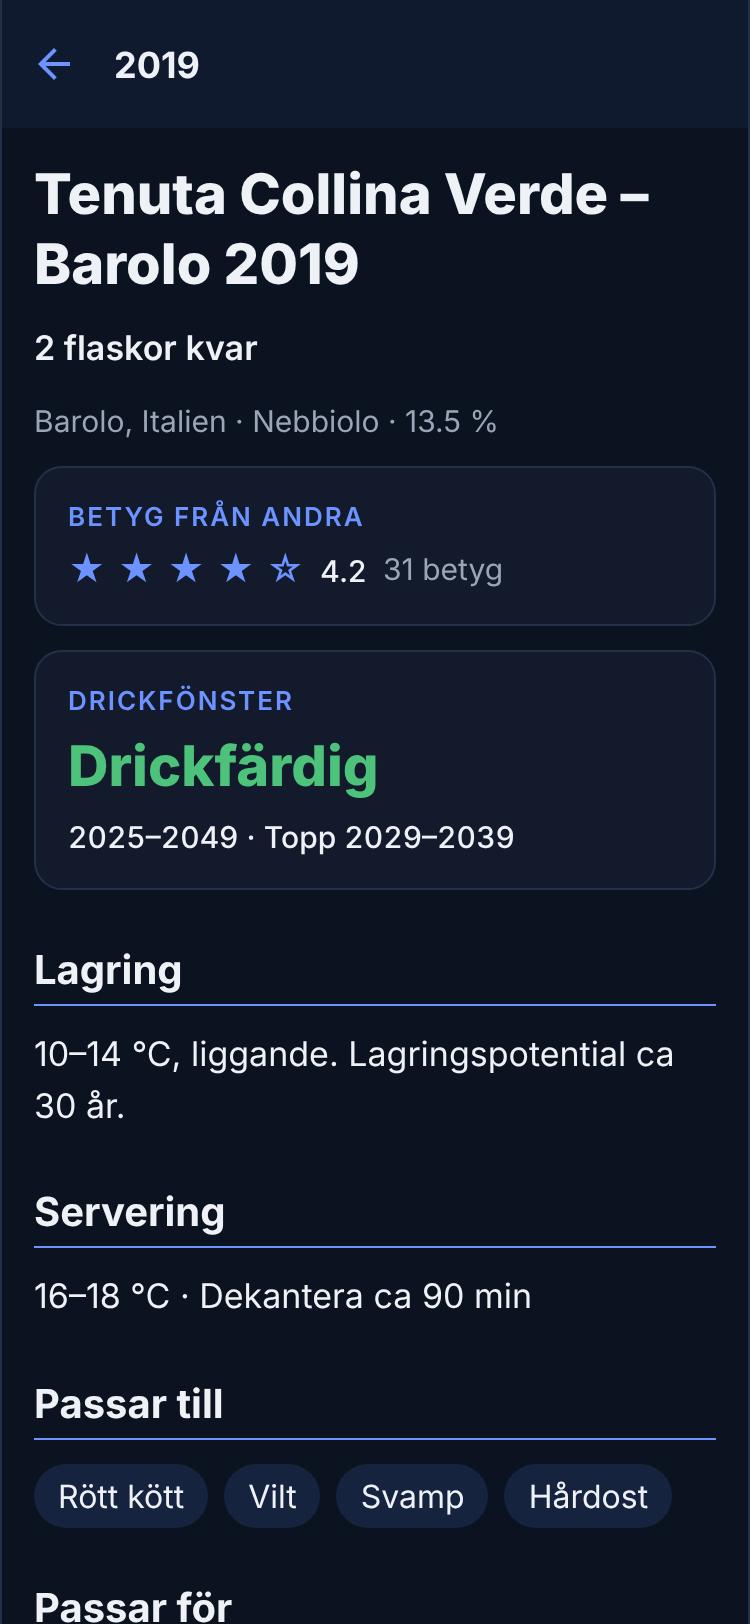
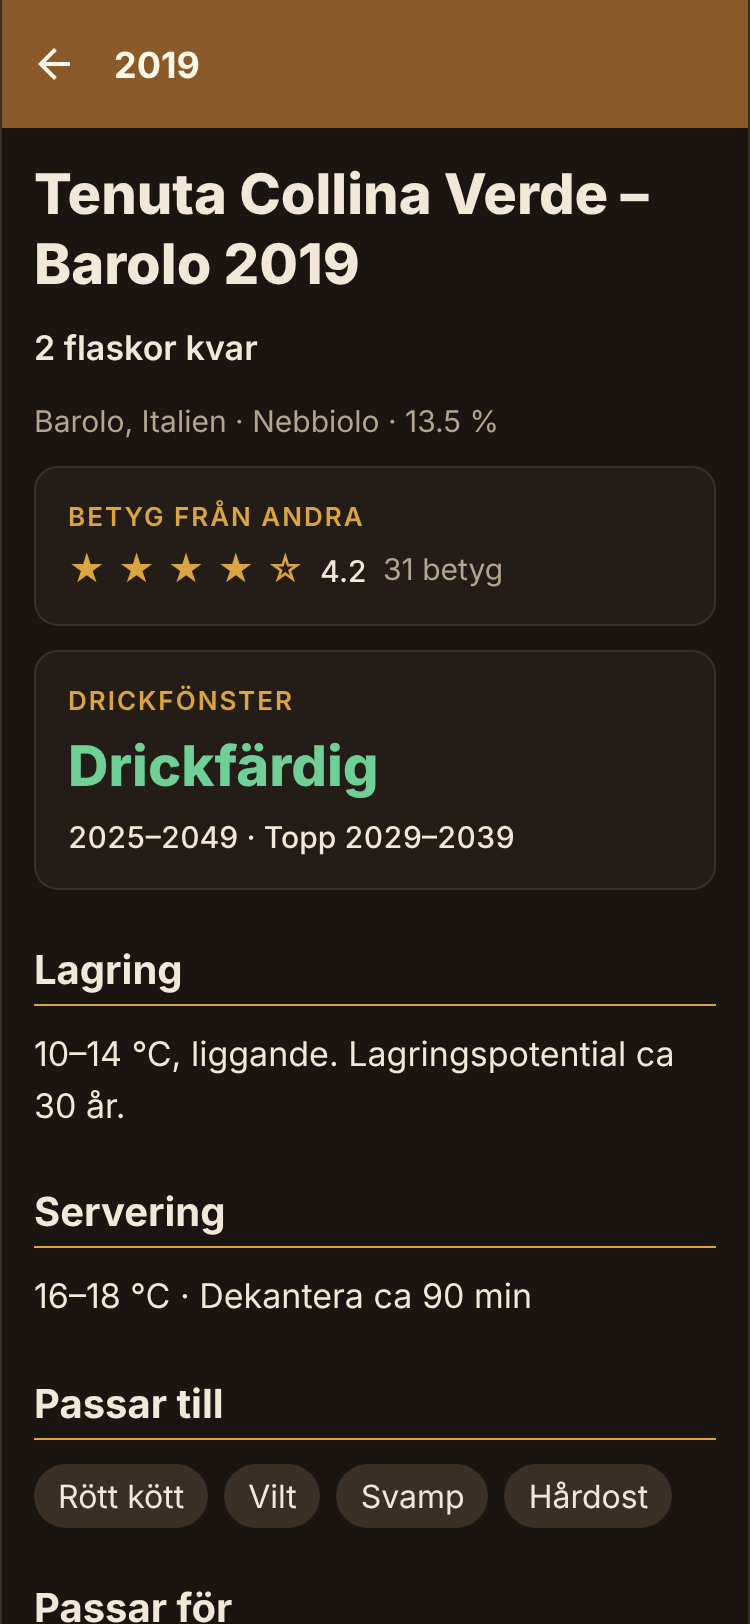
Trand-temat följer TrandStyles färger (#32)
* Förbättra UI/UX: tydligare färger, rubriker och brödtext inom tour-temat

Claude-Session: https://claude.ai/code/session_01K9pKQeodvru12FmDSgB8MM

* Förklara varför flaskan inte kan sparas och vad årgång betyder

Claude-Session: https://claude.ai/code/session_01K9pKQeodvru12FmDSgB8MM

* Mobile first: visa appen som en centrerad mobilkolumn på bred skärm

Claude-Session: https://claude.ai/code/session_01K9pKQeodvru12FmDSgB8MM

* Källaren: gruppering, filtrering och sortering

- Standard: grupperat på vintyp och sedan druva
- Sortering: drick först, land, region, druva, inlagd, inköpt, pris
- Filter: vintyp, druva, land, region och drickfärdigt/lagras

Claude-Session: https://claude.ai/code/session_01K9pKQeodvru12FmDSgB8MM

* Källaren: slå ihop identiska poster och visa antalet i rutan

Claude-Session: https://claude.ai/code/session_01K9pKQeodvru12FmDSgB8MM

* Källaren: tydligare antal i rutan

Claude-Session: https://claude.ai/code/session_01K9pKQeodvru12FmDSgB8MM

* Källaren: visa pris per flaska där det finns

Claude-Session: https://claude.ai/code/session_01K9pKQeodvru12FmDSgB8MM

* Källaren: Systembolagets aktuella pris när eget pris saknas

Claude-Session: https://claude.ai/code/session_01K9pKQeodvru12FmDSgB8MM

* Källaren: lättare namnmatchning mot Systembolaget med sannolikhet

Claude-Session: https://claude.ai/code/session_01K9pKQeodvru12FmDSgB8MM

* Källaren: prisindikation med årgångstolerans, storleksrader och importörsproducent
[…]

diff --git a/packages/design/src/tokens.ts b/packages/design/src/tokens.ts
@@ -5,8 +5,8 @@
 //           cerise, turkos och solgul, rundade former, knappar med 3D-tryck.
 //   tour  – utgår från Mallorca Golf Tour: vintageaffisch med pergament,
 //           vinröd och guld, serifer och skrivmaskinsetiketter.
-//   trand – Trands egen stil (trand.se/styles.css, som i TrandStyle): mörk
-//           marinblå, blå accent, Inter. Alltid mörkt.
+//   trand – Trands appstil, som TrandStyle (public/stil.css i trandstyle):
+//           kräm, brons och guld, brunt sidhuvud, Inter. Ljust och mörkt läge.
 //
 // Komponenter ska bara läsa semantiska tokens (surface, primary, …), aldrig
 // palettens råa färger, så att de fungerar i båda familjerna.
@@ -39,6 +39,9 @@ export interface ColorTokens {
   navActive: string;
   /** Sidtitlar (display-typsnittet). */
   title: string;
+  /** Sidhuvud (överst på skärmen) och text/ikoner på det. */
+  header: string;
+  onHeader: string;
   success: string;
   warning: string;
   danger: string;
@@ -145,6 +148,8 @@ export const party: Theme = {
     accent: partyPalette.solgul,
     navActive: partyPalette.solgul,
     title: partyPalette.solgul,
+    header: partyPalette.natt2,
+    onHeader: "#ffffff",
     success: partyPalette.ok,
     warning: partyPalette.orange,
     danger: partyPalette.faraLjus,
@@ -207,6 +212,8 @@ export const tourLight: Theme = {
     accent: "#7a5822",
     navActive: "#6e1d2b",
     title: "#6e1d2b",
+    header: "#ead9aa",
+    onHeader: "#111c2e",
     success: "#2f4a2a", // fairway
     warning: "#7d4c08",
     danger: "#8a1c2c",
@@ -237,6 +244,8 @@ export const tourDark: Theme = {
     accent: "#e0bd7c",
     navActive: "#e0bd7c",
     title: "#e0bd7c",
+    header: "#30251a",
+    onHeader: "#fbf3dc",
     success: "#8fa379",
     warning: "#e0bd7c",
     danger: "#e0687a",
@@ -248,51 +257,15 @@ export const tourDark: Theme = {
 
 // ---------------------------------------------------------------- trand ---
 
-// Färger från trand.se/styles.css.
-const trandPalette = {
-  bg: "#0b1220",
-  surface: "#121a2b",
-  raised: "#101a2e",
-  text: "#eef1f6",
-  muted: "#9aa5b8",
-  line: "#223049",
-  accent: "#6c93ff",
-  accentSoft: "#16233f",
-  ok: "#4cc27a",
-};
+// Färger från TrandStyle (public/stil.css). Grönt, orange och dämpad text i
+// ljust läge är något mörkare än i Style, för att klara WCAG AA mot bakgrunden.
+const trandHeader = { header: "#8a5a2b", onHeader: "#fff8e8" }; // brons, som Styles sidhuvud
 
 const inter = (weight: number, native: string): FontToken =>
   font('"Inter", system-ui, -apple-system, "Segoe UI", sans-serif', native, `Inter:wght@${weight}`);
 
-export const trand: Theme = {
-  family: "trand",
-  mode: "dark",
-  name: "Trand",
-  colors: {
-    background: trandPalette.bg,
-    surface: trandPalette.surface,
-    surfaceRaised: trandPalette.raised,
-    highlight: trandPalette.accentSoft,
-    border: trandPalette.line,
-    text: trandPalette.text,
-    textMuted: trandPalette.muted,
-    // Som .btn på trand.se: ljus knapp med mörk text.
-    primary: trandPalette.text,
-    onPrimary: trandPalette.bg,
-    primaryEdge: trandPalette.text,
-    secondary: "transparent",
-    onSecondary: trandPalette.text,
-    secondaryEdge: trandPalette.line,
-    accent: trandPalette.accent,
-    navActive: trandPalette.accent,
-    // Som rubrikerna på trand.se: vita, accenten används sparsamt.
-    title: trandPalette.text,
-    success: trandPalette.ok,
-    warning: "#f0b24a",
-    danger: "#ff6b7a",
-    tag: trandPalette.accentSoft,
-    onTag: trandPalette.text,
-  },
+const trandBase = {
+  family: "trand" as const,
   fonts: {
     display: inter(800, "Inter_800ExtraBold"),
     heading: inter(700, "Inter_700Bold"),
@@ -303,17 +276,78 @@ export const trand: Theme = {
   },
   type: { display: 34, title: 28, heading: 20, body: 17, small: 15, label: 13 },
   space: { xs: 4, sm: 8, md: 12, lg: 16, xl: 24 },
-  radius: { card: 14, button: 10, field: 10, chip: 999 },
-  button: { style: "flat", uppercase: false, letterSpacing: 0, font: "label", edgeHeight: 0 },
-  // Som .eyebrow på trand.se: versaler med spärrning.
+  radius: { card: 12, button: 8, field: 8, chip: 999 },
+  button: { style: "flat" as const, uppercase: false, letterSpacing: 0, font: "label" as const, edgeHeight: 0 },
+  // Som h3 i Style: små versaler med spärrning.
   label: { uppercase: true, letterSpacing: 1 },
-  backgroundCss: trandPalette.bg,
+};
+
+export const trandLight: Theme = {
+  ...trandBase,
+  mode: "light",
+  name: "Trand, ljus",
+  colors: {
+    background: "#f3ead9",
+    surface: "#fffaf0", // yta
+    surfaceRaised: "#fffaf0",
+    highlight: "#ecdbb6", // fokus (guld 35 %) på yta
+    border: "#e3d4b8", // linje
+    text: "#2a1f14",
+    textMuted: "#766655", // dov
+    primary: "#8a5a2b", // brons
+    onPrimary: "#ffffff",
+    primaryEdge: "#8a5a2b",
+    secondary: "transparent",
+    onSecondary: "#2a1f14",
+    secondaryEdge: "#e3d4b8",
+    accent: "#8a5a2b",
+    navActive: "#8a5a2b",
+    title: "#2a1f14",
+    ...trandHeader,
+    success: "#2b764b",
+    warning: "#a94e08",
+    danger: "#b42318",
+    tag: "#e3d4b8",
+    onTag: "#2a1f14",
+  },
+  backgroundCss: "#f3ead9",
+};
+
+export const trandDark: Theme = {
+  ...trandBase,
+  mode: "dark",
+  name: "Trand, mörk",
+  colors: {
+    background: "#1a1511",
+    surface: "#241d17",
+    surfaceRaised: "#241d17",
+    highlight: "#5a4624", // fokus (guld 30 %) på yta
+    border: "#3a2f24",
+    text: "#f1e8d8",
+    textMuted: "#b3a48d",
+    primary: "#d9a441", // guld
+    onPrimary: "#1a1208",
+    primaryEdge: "#d9a441",
+    secondary: "transparent",
+    onSecondary: "#f1e8d8",
+    secondaryEdge: "#3a2f24",
+    accent: "#d9a441",
+    navActive: "#d9a441",
+    title: "#f1e8d8",
+    ...trandHeader,
+    success: "#6fcf97",
+    warning: "#f0b35a",
+    danger: "#ff8a80",
+    tag: "#3a2f24",
+    onTag: "#f1e8d8",
+  },
+  backgroundCss: "#1a1511",
 };
 
 export const themes = {
   party: { light: party, dark: party }, // Partyplan är alltid mörk.
   tour: { light: tourLight, dark: tourDark },
-  trand: { light: trand, dark: trand }, // Trand är alltid mörk.
+  trand: { light: trandLight, dark: trandDark },
 } satisfies Record<ThemeFamily, Record<ColorMode, Theme>>;
 
 export function getTheme(family: ThemeFamily, mode: ColorMode): Theme {

diff --git a/packages/design/test/tokens.test.ts b/packages/design/test/tokens.test.ts
@@ -1,6 +1,6 @@
 import { describe, expect, it } from "vitest";
 import { familyCss, googleFontsUrl, themeVariables } from "../src/css.ts";
-import { getTheme, nativeFontNames, party, themes, tourDark, tourLight, trand, type Theme } from "../src/tokens.ts";
+import { getTheme, nativeFontNames, party, themes, tourDark, tourLight, trandDark, trandLight, type Theme } from "../src/tokens.ts";
 
 // WCAG-kontrast mellan två hexfärger.
 function luminance(hex: string): number {
@@ -14,7 +14,7 @@ const contrast = (a: string, b: string) => {
   const [l1, l2] = [luminance(a), luminance(b)].sort((x, y) => y - x) as [number, number];
   return (l1 + 0.05) / (l2 + 0.05);
 };
-const all: Theme[] = [party, tourLight, tourDark, trand];
+const all: Theme[] = [party, tourLight, tourDark, trandLight, trandDark];
 
 describe("tokens", () => {
   it("every theme defines the same token keys", () => {
@@ -30,11 +30,12 @@ describe("tokens", () => {
     }
   });
 
-  it("party is always dark, tour follows the mode", () => {
+  it("party is always dark, tour and trand follow the mode", () => {
     expect(getTheme("party", "light")).toBe(party);
     expect(getTheme("tour", "light")).toBe(tourLight);
     expect(getTheme("tour", "dark")).toBe(tourDark);
-    expect(getTheme("trand", "light")).toBe(trand);
+    expect(getTheme("trand", "light")).toBe(trandLight);
+    expect(getTheme("trand", "dark")).toBe(trandDark);
   });
 
   it("lists native fonts to load", () => {

diff --git a/apps/mobile/src/components/TrandLogo.tsx b/apps/mobile/src/components/TrandLogo.tsx
@@ -16,10 +16,21 @@ const SOURCES = {
   },
 } as const;
 
-/** mark = monogrammet, lockup = monogram och ordmärke. height i px. */
-export function TrandLogo({ variant = "lockup", height = 28 }: { variant?: keyof typeof SOURCES; height?: number }) {
+/**
+ * mark = monogrammet, lockup = monogram och ordmärke. height i px. tone väljer
+ * variant oberoende av tema, t.ex. "dark" (mörk ikonruta) på ett färgat sidhuvud.
+ */
+export function TrandLogo({
+  variant = "lockup",
+  height = 28,
+  tone,
+}: {
+  variant?: keyof typeof SOURCES;
+  height?: number;
+  tone?: "light" | "dark";
+}) {
   const { mode } = useTheme();
-  const { src, ratio } = SOURCES[variant][mode];
+  const { src, ratio } = SOURCES[variant][tone ?? mode];
   return (
     <View accessible accessibilityRole="image" accessibilityLabel="Trand">
       <Image source={src} resizeMode="contain" style={{ height, width: height * ratio }} />

diff --git a/apps/mobile/src/app/(tabs)/_layout.tsx b/apps/mobile/src/app/(tabs)/_layout.tsx
@@ -23,11 +23,11 @@ export default function TabsLayout() {
           letterSpacing: theme.label.letterSpacing,
           textTransform: theme.label.uppercase ? "uppercase" : "none",
         },
-        headerStyle: { backgroundColor: c.surfaceRaised },
-        headerTitleStyle: { fontFamily: theme.fonts.heading.native, color: c.text },
+        headerStyle: { backgroundColor: c.header },
+        headerTitleStyle: { fontFamily: theme.fonts.heading.native, color: c.onHeader },
         headerRight: () => (
           <View style={{ marginRight: theme.space.lg }}>
-            <TrandLogo variant="mark" height={26} />
+            <TrandLogo variant="mark" height={26} tone="dark" />
           </View>
         ),
         headerShadowVisible: false,

diff --git a/apps/mobile/src/app/_layout.tsx b/apps/mobile/src/app/_layout.tsx
@@ -45,9 +45,9 @@ function Screens() {
       <StatusBar style={theme.mode === "dark" ? "light" : "dark"} />
       <Stack
         screenOptions={{
-          headerStyle: { backgroundColor: theme.colors.surfaceRaised },
-          headerTintColor: theme.colors.navActive,
-          headerTitleStyle: { fontFamily: theme.fonts.heading.native, color: theme.colors.text },
+          headerStyle: { backgroundColor: theme.colors.header },
+          headerTintColor: theme.colors.onHeader,
+          headerTitleStyle: { fontFamily: theme.fonts.heading.native, color: theme.colors.onHeader },
           headerShadowVisible: false,
           contentStyle: { backgroundColor: theme.colors.background },
         }}

diff --git a/packages/design/src/css.ts b/packages/design/src/css.ts
@@ -22,7 +22,7 @@ const block = (selector: string, vars: Record<string, string>, extra = "") =>
 
 /**
  * Komplett stilmall för en familj. Ljust läge på :root, mörkt via
- * prefers-color-scheme och [data-theme="dark"]; party och trand är alltid mörka.
+ * prefers-color-scheme och [data-theme="dark"]; party är alltid mörk.
  */
 export function familyCss(family: ThemeFamily): string {
   const { light, dark } = themes[family];

diff --git a/docs/DESIGNSYSTEM.md b/docs/DESIGNSYSTEM.md
@@ -8,7 +8,7 @@ att byta tema – komponenterna ändras inte.
 |---|---|---|---|
 | `party` | Nöjesappar (fester, spel, tävlingar) | Partyplan / [Fredrik55](https://github.com/FreWer71-ready/Fredrik55) | Natthimmel, cerise, turkos, solgul. Fredoka + Nunito. Rundat, knappar med 3D-tryck. Alltid mörkt. |
 | `tour` | Resor, samlingar, klassiska appar | [Mallorca Golf Tour](https://github.com/FreWer71-ready/golftour) | Vintageaffisch: pergament, vinröd, guld. Abril Fatface, Fraunces, Lora, Special Elite, IBM Plex Mono. Ljust och mörkt läge. |
-| `trand` | Trands egna appar (TrandWine, TrandStyle) | [trand.se](https://trand.se) (`styles.css`) | Mörk marinblå, blå accent, ljusa knappar. Inter. Etiketter i versaler med spärrning. Alltid mörkt. |
+| `trand` | Trands appar (TrandWine, TrandStyle) | [TrandStyle](https://github.com/FreWer71-ready/trandstyle) (`public/stil.css`) | Kräm, brons och guld, brunt sidhuvud, ljusa kort med tunn kant. Inter. Etiketter i versaler med spärrning. Ljust och mörkt läge. |
 
 **TrandWine använder `trand`.** `EXPO_PUBLIC_APP_THEME=tour` eller `party` ger de andra utseendena.
 
@@ -20,7 +20,7 @@ Alla teman definierar samma nycklar (`packages/design/src/tokens.ts`):
 
 - **Färg:** `background`, `surface`, `surfaceRaised`, `highlight`, `border`,
   `text`, `textMuted`, `primary`/`onPrimary`/`primaryEdge`,
-  `secondary`/`onSecondary`/`secondaryEdge`, `accent`, `navActive`, `title`,
+  `secondary`/`onSecondary`/`secondaryEdge`, `accent`, `navActive`, `title`, `header`/`onHeader`,
   `success`, `warning`, `danger`, `tag`/`onTag`
 - **Typsnitt** (roller): `display`, `heading`, `body`, `bodyStrong`, `label`, `data`
   – vart och ett med CSS-stack, React Native-namn och Google Fonts-familj

diff --git a/README.md b/README.md
@@ -6,7 +6,7 @@ lagring, drickfönster, servering, mat och tillfälle. Har du haft vinet förut
 visas din historik direkt.
 
 Bakgrund och beslut: [docs/ARKITEKTUR.md](docs/ARKITEKTUR.md).
-Utseendet kommer från designsystemet i [docs/DESIGNSYSTEM.md](docs/DESIGNSYSTEM.md) (temat Trand, som trand.se).
+Utseendet kommer från designsystemet i [docs/DESIGNSYSTEM.md](docs/DESIGNSYSTEM.md) (temat Trand, samma färger som TrandStyle).
 
 <p>
   <img src="docs/screenshots/cellar.png" width="240" alt="Källare" />
